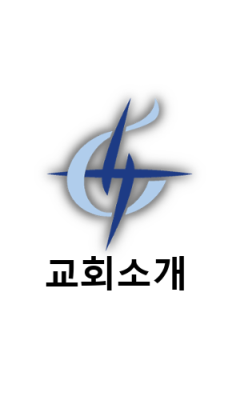
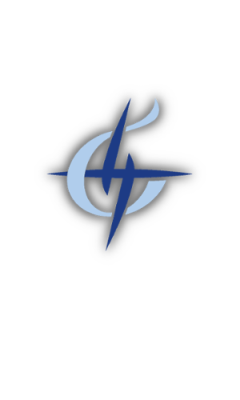
change the font and look

Changed region(s): [[0.175, 0.63, 0.4667, 0.75], [0.4958, 0.63, 0.7875, 0.75]]

diff --git a/SDHanbitChurch/PageViewController.m b/SDHanbitChurch/PageViewController.m
@@ -85,15 +85,12 @@ NSString *backImageList[5] = {@"bird.jpg", @"yellowtree2.jpg", @"cross.jpg", @"g
         _viewControl.scalesPageToFit = YES;
         [_viewControl loadHTMLString:html baseURL:nil];
     }
-    else if (_category == MENU_ID_MAINPASTOR) // 담임목사 소개
+    else if (_category == MENU_ID_MAINPASTOR) // 인사말
     {
+        NSLog(@"width=%f", self.view.frame.size.width);
         NSString *html = [NSString stringWithFormat:
-                          @"<html><body bgcolor=#E4E4E4 style=\"font-family:arial;color:black;font-size:15px;margin:10px\"> \
-                          <h3>정수일 목사</h3> \
-                          <blockquote><img src=\"Hanbit_PastorMain_400x600.jpg\" height=\"60%%\"><br><br> \
-                          담임목사<br>가족: 정경자, 다연, 윤홍<br> \
-                          <a href=\"scheong2@hotmail.com\">scheong2@hotmail.com</a></blockquote> \
-                          </body></html>"];
+                          @"<html><body style=\"margin:0\"><img src=hanbit_greeting.png width=\"%d\"></body></html>",
+                          (int)self.view.frame.size.width];
     
         [_viewControl loadHTMLString:html baseURL:baseURL];
     }
@@ -108,9 +105,18 @@ NSString *backImageList[5] = {@"bird.jpg", @"yellowtree2.jpg", @"cross.jpg", @"g
     else if (_category == MENU_ID_WORSHIP_INFO) // 예배 안내
     {
         NSString *html = [NSString stringWithFormat:
-                          @"<html><body background=\"%@\"> \
-                          <p><strong>주일 예배 시간</strong></p> \
-                          <table border=1 frame=hsides rules=rows cellpadding=4 style=\"font-family:arial;color:black;font-size:12px;\"> \
+                          @"<html><head> \
+                          <style type=\"text/css\"> \
+                          body { \
+                          background: url('%@'); \
+                          background-repeat: no-repeat; \
+                          background-size: cover; \
+                          font-family: \"AppleSDGothicNeo-Light\"; \
+                          margin: 10px; } \
+                          </style></head> \
+                          <body> \
+                          <p style=\"color:#642EFE;font-size:20px\">주일 예배 시간</p> \
+                          <table border=1 frame=hsides rules=rows cellpadding=4 style=\"color:black;font-size:12px;\"> \
                           <tr><td valign=top width=140>성인부 예배</td> \
                           <td>1부 오전 7시30분<br>2부 오전 9시 (동시통역)<br>3부 오전 11시 (동시통역)<br>4부 오후 1시15분 (동시통역) 청년, 대학부<br></tr> \
                           <tr><td valign=top width=140>영아부 예배 &#8211; 1세 이하</td><td>오전 9시<br>오전 11시</td></tr> \
@@ -122,8 +128,8 @@ NSString *backImageList[5] = {@"bird.jpg", @"yellowtree2.jpg", @"cross.jpg", @"g
                           <tr><td valign=top width=140>고등부 예배</td><td>오전 9시</td></tr> \
                           <tr><td valign=top width=140>천사부 예배</td><td>오전 9시</td></tr> \
                           </table> \
-                          <p><strong>기타 모임 시간</strong></p> \
-                          <table border=1 frame=hsides rules=rows cellpadding=4 style=\"font-family:arial;color:black;font-size:12px;\"> \
+                          <p style=\"color:#642EFE;font-size:20px\">기타 모임 시간</p> \
+                          <table border=1 frame=hsides rules=rows cellpadding=4 style=\"color:black;font-size:12px;\"> \
                           <tr><td width=80>목장 모임</td><td>(금) 오후 7시</td></tr> \
                           <tr><td width=80>대학부 모임</td><td>(금) 오후 6시</td></tr> \
                           <tr><td width=80>청년부 모임</td><td>(금) 오후 7시30분, (주) 오후 3시30분</td></tr> \

diff --git a/SDHanbitChurch/BibleViewController.m b/SDHanbitChurch/BibleViewController.m
@@ -74,8 +74,18 @@ NSString *backBibleImageList[5] = {@"bird.jpg", @"yellowtree2.jpg", @"cross.jpg"
 
     // this week's bible verse
     NSString *html = [NSString stringWithFormat:
-                      @"<html><body background=\"%@\" style=\"margin:15px\"><P><big>%@</big></P>%@<br><br> \
-                      <P><big>%@</big></P>%@<br></body></html>",
+                      @"<html><head> \
+                      <style type=\"text/css\"> \
+                      body { \
+                      background: url('%@'); \
+                      background-repeat: no-repeat; \
+                      background-size: cover; \
+                      font-family: \"AppleSDGothicNeo-Light\"; \
+                      font-size: 18px; \
+                      margin: 20px; } \
+                      </style></head> \
+                      <body><P style=\"color:#642EFE\"><big>%@</big></P>%@<br><br> \
+                      <P style=\"color:#642EFE\"><big>%@</big></P>%@<br></body></html>",
                       backBibleImageList[bibleIndex],
                       korTitleString[thisWeekCh][thisWeekVerse], korText,
                       engTitleString[thisWeekCh][thisWeekVerse], engText];

diff --git a/SDHanbitChurch/ItemViewController.m b/SDHanbitChurch/ItemViewController.m
@@ -37,7 +37,16 @@
         DBManager *data = [listOfItems objectAtIndex:0];
     
         NSString *htmlString = [NSString stringWithFormat:
-                                @"<p><font size=\"4\" style=\"color:#8258FA\">%@</font></p>%@<br>",
+                                @"<html> \
+                                <style type=\"text/css\"> \
+                                body { \
+                                font-family: \"AppleSDGothicNeo-Light\"; \
+                                font-size: 15px \
+                                margin: 10px; } \
+                                </style></head> \
+                                <body> \
+                                <p style=\"color:#8258FA;font-size:20px\">%@</p>%@<br> \
+                                </body></html>",
                                 data->_title, data->_content];
         htmlString = [htmlString stringByReplacingOccurrencesOfString:@"\n" withString:@"<br>"];
         [_viewItem loadHTMLString:htmlString baseURL:nil];

diff --git a/SDHanbitChurch/SlideMenuViewController.m b/SDHanbitChurch/SlideMenuViewController.m
@@ -71,7 +71,7 @@ NSInteger slideMenuCategory[14] = { MENU_ID_NULL,
     
     self.menuItems = @[@"Hanbit Church",
                        @"교회 소개",
-                       @"담임목사 소개",
+                       @"인사말",
                        @"섬기는 이들",
                        @"오시는 길",
                        @"예배 안내",
